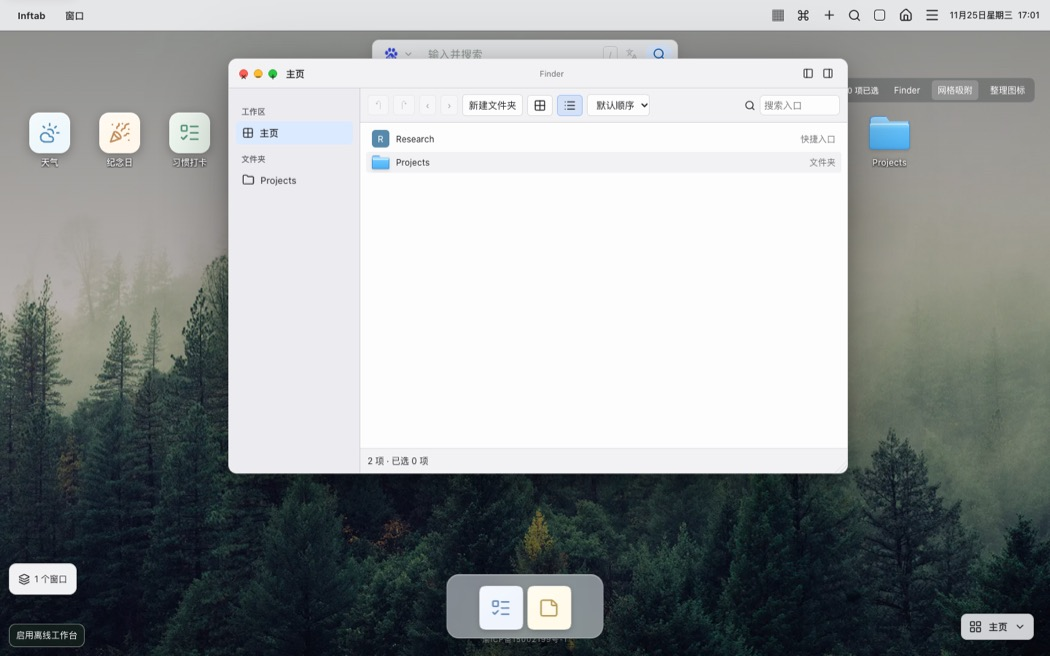
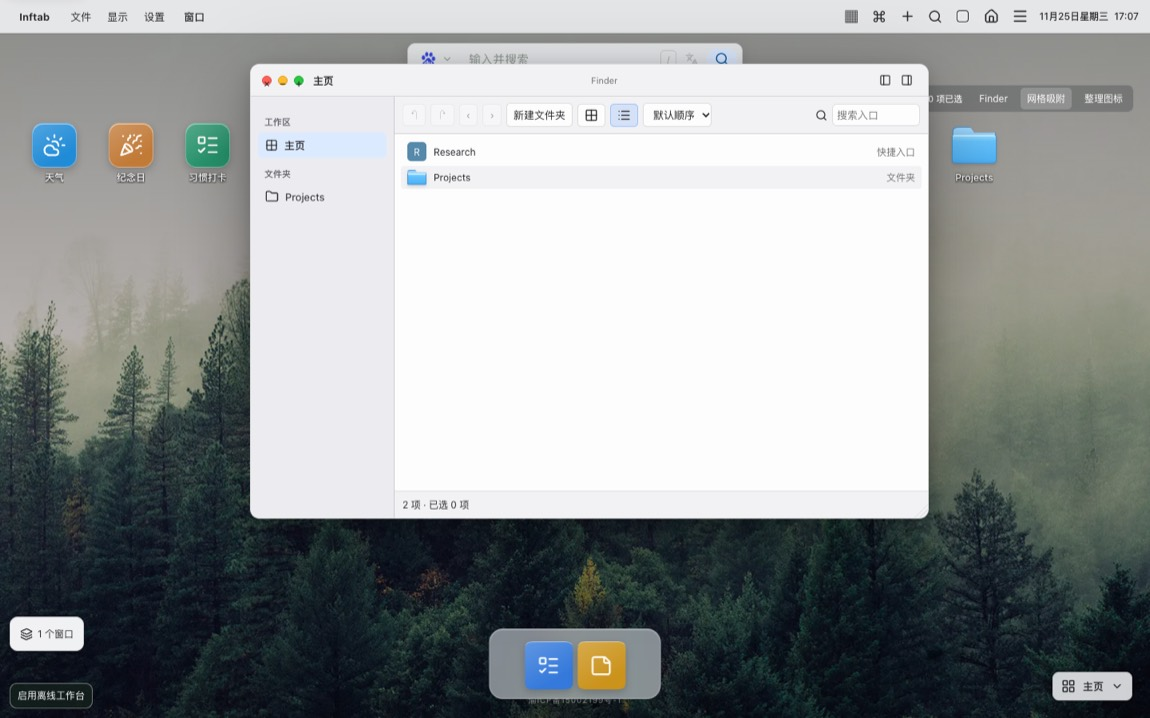
完善 macOS 功能菜单、系统设置与统一应用图标

diff --git a/e2e/desktop-alpha2.spec.ts b/e2e/desktop-alpha2.spec.ts
@@ -621,6 +621,8 @@ test('desktop chrome uses compact menu clock and coherent Finder Spotlight overv
  await page.getByRole('button',{name:'打开命令面板'}).click()
  const palette=page.getByRole('dialog',{name:'命令面板'})
  await expect(palette.getByRole('combobox')).toHaveCSS('font-size','22px')
+ await expect(palette.locator('.spotlight-search-icon')).toBeVisible()
+ await expect(palette.locator('.spotlight-icon').first()).toBeVisible()
  await page.screenshot({path:'test-results/mac38-spotlight.png',animations:'disabled'})
  await page.keyboard.press('Escape')
  await page.getByRole('button',{name:'窗口',exact:true}).click()
@@ -636,4 +638,84 @@ test('desktop chrome uses compact menu clock and coherent Finder Spotlight overv
  await page.getByRole('button',{name:'经典模式'}).click()
  await expect(page.locator('.home-content .home-clock')).toBeVisible()
  await expect(bar.locator('.home-clock')).toHaveCount(0)
+})
+
+test('mac desktop menus and settings navigation use real actions and preserve classic behavior',async({page},info)=>{
+ await page.setViewportSize({width:1440,height:900})
+ await page.goto('/')
+ await page.getByRole('button',{name:'桌面模式',exact:true}).click()
+ const menus=page.getByRole('navigation',{name:'桌面功能菜单'})
+ const file=menus.getByRole('button',{name:'文件',exact:true})
+ await file.focus()
+ await page.keyboard.press('ArrowDown')
+ const dropdown=menus.getByRole('menu',{name:'文件菜单'})
+ await expect(dropdown.getByRole('menuitem',{name:'打开 Finder'})).toBeFocused()
+ await page.keyboard.press('ArrowDown')
+ await expect(dropdown.getByRole('menuitem',{name:'新建快捷入口'})).toBeFocused()
+ await page.keyboard.press('Escape')
+ await expect(file).toBeFocused()
+ await expect(dropdown).toHaveCount(0)
+ await file.click()
+ await info.attach('mac-menu',{body:await page.screenshot({animations:'disabled'}),contentType:'image/png'})
+ await page.screenshot({path:'test-results/mac38-menu.png',animations:'disabled'})
+ await dropdown.getByRole('menuitem',{name:'打开 Finder'}).click()
+ const finder=page.getByRole('dialog',{name:'Finder 入口管理'})
+ await expect(finder).toBeVisible()
+ await finder.getByRole('button',{name:'关闭 Finder'}).click()
+ await menus.getByRole('button',{name:'显示',exact:true}).click()
+ await menus.getByRole('menuitem',{name:'深色外观'}).click()
+ await expect(page.locator('.home')).toHaveClass(/theme-dark/)
+ await menus.getByRole('button',{name:'设置',exact:true}).click()
+ await menus.getByRole('menuitem',{name:'系统设置'}).click()
+ const panel=page.getByRole('dialog',{name:'设置',exact:true})
+ const nav=panel.getByRole('navigation',{name:'设置分区'})
+ await expect(panel).toHaveClass(/mac-settings-panel/)
+ await expect(nav).toHaveCSS('flex-direction','column')
+ await expect(panel.locator('.settings-content')).toHaveCSS('display','grid')
+ await page.screenshot({path:'test-results/mac38-settings-dark.png',animations:'disabled'})
+ await nav.getByRole('button',{name:'数据',exact:true}).click()
+ await expect(nav.getByRole('button',{name:'数据',exact:true})).toHaveAttribute('aria-current','true')
+ await expect.poll(async()=>await panel.locator('[data-group="data"]').evaluate(el=>Math.round(el.getBoundingClientRect().top-el.closest('.side-panel')!.getBoundingClientRect().top))).toBeLessThan(100)
+ await nav.getByRole('button',{name:'外观',exact:true}).click()
+ await expect(nav.getByRole('button',{name:'外观',exact:true})).toHaveAttribute('aria-current','true')
+ await panel.getByRole('button',{name:'关闭',exact:true}).click()
+ await menus.getByRole('button',{name:'显示',exact:true}).click()
+ await menus.getByRole('menuitem',{name:'浅色外观'}).click()
+ await page.getByRole('button',{name:'打开设置'}).click()
+ await expect(panel).toBeVisible()
+ await expect(nav).toHaveCSS('flex-direction','column')
+ await page.screenshot({path:'test-results/mac38-settings-light.png',animations:'disabled'})
+ await page.setViewportSize({width:360,height:740})
+ await expect(nav).toHaveCSS('display','grid')
+ await panel.getByRole('button',{name:'关闭',exact:true}).click()
+ await expect(menus).toBeHidden()
+ await page.getByRole('button',{name:'经典模式',exact:true}).click()
+ await expect(menus).toHaveCount(0)
+ await page.getByRole('button',{name:'打开设置'}).click()
+ await expect(panel).not.toHaveClass(/mac-settings-panel/)
+ await expect(nav).toHaveCSS('display','grid')
+})
+
+test('right aligned arrangement is explicit and persists without losing desktop entries',async({page})=>{
+ await page.setViewportSize({width:1440,height:900})
+ await page.goto('/')
+ await page.getByRole('button',{name:'桌面模式',exact:true}).click()
+ const desktop=page.locator('.desktop-surface')
+ const icons=desktop.locator('.desktop-icon')
+ await expect(icons.first()).toBeVisible()
+ const ids=await icons.evaluateAll(nodes=>nodes.map(node=>node.getAttribute('data-item-id')!))
+ const first=icons.first(), second=icons.nth(1)
+ await first.click({button:'right'})
+ await page.getByRole('menuitem',{name:'从右上排列'}).click()
+ const read=()=>page.evaluate(()=>JSON.parse(localStorage.getItem('inftab.home-workspaces.v1')??'[]').find((w:{id:string})=>w.id==='default')?.desktop?.positions??{})
+ await expect.poll(async()=>Object.keys(await read()).length).toBe(ids.length)
+ const positions=await read()
+ expect(positions[ids[0]!].x).toBeGreaterThan(0)
+ expect(positions[ids[0]!].y).toBe(0)
+ expect(positions[ids[1]!]).toEqual({x:positions[ids[0]!].x,y:96})
+ await page.reload()
+ await expect(first).toHaveCSS('transform','matrix(1, 0, 0, 1, '+positions[ids[0]!].x+', 0)')
+ await expect(second).toHaveCSS('transform','matrix(1, 0, 0, 1, '+positions[ids[1]!].x+', 96)')
+ await page.setViewportSize({width:360,height:740})
+ await expect.poll(read).toEqual(positions)
 })

diff --git a/src/desktop/DesktopShell.vue b/src/desktop/DesktopShell.vue
@@ -6,7 +6,7 @@ import '@interactjs/auto-start'
 import type { LauncherItem } from '../types'
 import { launcherIcons } from '../components/launcherIcons'
 import { folderParents } from '../data/folderTree'
-import { cell, resolvePoints, fitPoint, freshLayout, normalizeLayout, translateGroup, type Point, type DesktopLayout } from './layout'
+import { cell, arrangeFromRight, resolvePoints, fitPoint, freshLayout, normalizeLayout, translateGroup, type Point, type DesktopLayout } from './layout'
 const props = defineProps<{items: LauncherItem[]; workspaceId: string; layout?: DesktopLayout; folderShortcuts?: LauncherItem[]; dark?: boolean}>()
 const emit = defineEmits<{open: [item: LauncherItem, event?: MouseEvent]; edit: [item: LauncherItem]; layout: [layout: DesktopLayout]; finder:[]; create:[]; remove:[item:LauncherItem]; membership:[item:LauncherItem,folderId:string]}>()
 const surface = ref<HTMLElement>()
@@ -22,6 +22,11 @@ const failedIcons = ref<Record<string,string>>({})
 // Parent keys this component by workspace ID; each space has an independent record.
 const layout = computed(() => props.layout ?? freshLayout())
 function update(next: DesktopLayout) { emit('layout', next) }
+function arrangeRight(){
+ if(dragging)return
+ const positions=arrangeFromRight(visibleItems.value.map(i=>i.id),width.value,surface.value?.clientHeight??height.value)
+ update({...layout.value,positions:{...layout.value.positions,...positions}})
+}
 function migrate() {
   if (props.layout) return
   try {
@@ -156,7 +161,7 @@ function cancelDrag() {
   suppressedId=d.id; suppressUntil=performance.now()+300
 }
 function cancelKey(event: KeyboardEvent) { if(event.key==='Escape'){cancelDrag(); menu.value=undefined;selected.value=[]} }
-function context(event:MouseEvent,item?:LauncherItem){menu.value={x:Math.min(event.clientX,innerWidth-180),y:Math.min(event.clientY,innerHeight-180),item}}
+function context(event:MouseEvent,item?:LauncherItem){menu.value={x:Math.max(0,Math.min(event.clientX,innerWidth-180)),y:Math.max(0,Math.min(event.clientY,innerHeight-230)),item}}
 function menuAction(action:()=>void){menu.value=undefined;action()}
 onMounted(() => { window.addEventListener('blur',cancelDrag); window.addEventListener('keydown',cancelKey); surface.value?.addEventListener('pointercancel',cancelDrag,true) })
 onBeforeUnmount(() => { cancelDrag(); observer?.disconnect(); binding?.unset(); window.removeEventListener('blur',cancelDrag); window.removeEventListener('keydown',cancelKey); surface.value?.removeEventListener('pointercancel',cancelDrag,true) })
@@ -190,7 +195,7 @@ watch(() => visibleItems.value.map(i=>i.id), ids => {
     <div v-if="menu" class="desktop-menu" :class="{dark}" :style="{left:menu.x+'px',top:menu.y+'px'}" role="menu">
       <button role="menuitem" @click="menuAction(()=>emit('create'))">新建文件夹</button>
       <button role="menuitem" @click="menuAction(()=>emit('finder'))">打开 Finder</button>
-      <button role="menuitem" @click="menuAction(()=>update({...layout,positions:{}}))">整理图标</button>
+      <button role="menuitem" @click="menuAction(()=>update({...layout,positions:{}}))">整理图标</button><button role="menuitem" @click="menuAction(arrangeRight)">从右上排列</button>
       <template v-if="menu.item?.shortcut||menu.item?.folder"><button role="menuitem" @click="emit('edit',menu.item!);menu=undefined">编辑</button><button role="menuitem" @click="emit('remove',menu.item!);menu=undefined">删除</button></template>
     </div>
   </section>
@@ -207,7 +212,7 @@ watch(() => visibleItems.value.map(i=>i.id), ids => {
 .desktop-icon:active{cursor:grabbing}
 .desktop-icon:focus-visible{outline:2px solid white;outline-offset:-3px;border-radius:8px}
 .desktop-symbol{width:56px;height:56px;border-radius:14px;border:1px solid #ffffff48;display:grid;place-items:center;overflow:hidden;color:white;box-shadow:0 4px 14px #0004,inset 0 1px 1px #ffffff50;font-size:24px}
-.desktop-symbol.builtin{color:var(--builtin-ink,#6c8b7b);background:linear-gradient(150deg,#ffffff60,transparent 65%),var(--builtin-paper,#f4f8f3)}
+
 .desktop-symbol img{width:100%;height:100%;object-fit:contain;pointer-events:none}
 .desktop-label{max-width:90px;overflow:hidden;text-overflow:ellipsis;white-space:nowrap;font-size:12px;font-weight:500;line-height:1.25;text-shadow:0 1px 3px #000,0 1px 6px #0009}
 .desktop-icon.selected .desktop-symbol{outline:2px solid #90c9ff;outline-offset:3px}.desktop-icon.selected .desktop-label{background:var(--mac-selection);border-radius:4px;padding:1px 5px}.desktop-symbol:has(.mac-folder){background:none!important;box-shadow:none;border:0;overflow:visible}.mac-folder{--folder-size:56px}.desktop-menu{position:fixed;z-index:18;background:var(--mac-menu);color:var(--mac-ink);padding:5px;border:1px solid var(--mac-line);border-radius:8px;box-shadow:var(--mac-shadow);width:170px;backdrop-filter:blur(18px)}.desktop-menu button{display:block;width:100%;text-align:left;padding:7px 9px;background:none;border:0;border-radius:5px;color:inherit;cursor:pointer}.desktop-menu button:hover,.desktop-menu button:focus-visible{background:var(--mac-selection);color:#fff}

diff --git a/src/styles/main.css b/src/styles/main.css
@@ -1328,3 +1328,33 @@ select { background-color: var(--ui-field); color: var(--ui-text); }
 .desktop-mode .command-palette{margin:min(17vh,120px) auto auto;max-height:min(480px,calc(100dvh - min(17vh,120px) - 16px))}
 .desktop-mode .command-palette .command-shell input{color:var(--mac-ink)}
 @media(forced-colors:active){.mac-folder-icon{forced-color-adjust:none}.desktop-mode .home-workspace-trigger{border-color:ButtonText}}
+
+/* Settings has the same scroll container and focus trap as classic mode;
+   desktop appearance switches only its spatial composition. */
+.desktop-mode .panel-backdrop:has(.mac-settings-panel){align-items:center;justify-content:center;background:#0003;backdrop-filter:none}
+.desktop-mode .mac-settings-panel{width:min(800px,100%);height:min(700px,100%);background:var(--mac-window);border:1px solid var(--mac-line);box-shadow:var(--mac-shadow-active);border-radius:12px;scrollbar-color:var(--mac-muted) transparent;animation:none;--panel-header-height:60px}
+.desktop-mode .mac-settings-panel .panel-header{background:var(--mac-toolbar);padding:10px 18px}
+.desktop-mode .mac-settings-panel .panel-header h2{font-size:17px;font-weight:600}
+.desktop-mode .mac-settings-panel .panel-header p{margin-top:2px}
+.desktop-mode .mac-settings-panel .panel-close{width:26px;height:26px;border-radius:50%;border:0;background:var(--mac-line)}
+.desktop-mode .mac-settings-panel .settings-section{margin:10px 0;padding:12px 14px;border-radius:8px;box-shadow:none}
+.desktop-mode .mac-settings-panel .section-heading{margin-bottom:10px}
+.desktop-mode .mac-settings-panel .section-heading h3{letter-spacing:0;font-weight:600}
+@media(min-width:760px){
+ .desktop-mode .mac-settings-panel .settings-content{position:relative;display:grid;grid-template-columns:174px minmax(0,1fr);column-gap:16px;padding:0 16px 20px 0;align-items:start;background:linear-gradient(90deg,var(--mac-sidebar) 174px,var(--mac-window) 174px)}
+ .desktop-mode .mac-settings-panel .settings-nav{grid-column:1;grid-row:1/span 5;display:flex;flex-direction:column;align-self:start;gap:3px;margin:0;padding:14px 8px;top:var(--panel-header-height);background:var(--mac-sidebar);border:0}
+ .desktop-mode .mac-settings-panel .settings-nav-button{min-height:34px;flex-direction:row;justify-content:flex-start;gap:8px;padding:5px 9px;font-size:13px;color:var(--mac-ink);border-radius:6px;box-shadow:none}
+ .desktop-mode .mac-settings-panel .settings-nav-button.active{background:var(--mac-selection);color:#fff;border-color:transparent}
+ .desktop-mode .mac-settings-panel .settings-group{grid-column:2;min-width:0;scroll-margin-top:calc(var(--panel-header-height) + 8px)}
+}
+
+.desktop-mode :is(.desktop-symbol,.home-dock-icon,.spotlight-icon).builtin{color:#fff;background:linear-gradient(150deg,#ffffff38,transparent 75%),var(--app-icon,#677587);border-color:#ffffff55;box-shadow:0 4px 10px #0003,inset 0 1px 0 #fff8}.desktop-mode :is(.desktop-symbol,.home-dock-icon,.spotlight-icon).builtin[data-action="weather"]{--app-icon:#208bd7}.desktop-mode :is(.desktop-symbol,.home-dock-icon,.spotlight-icon).builtin[data-action="todos"]{--app-icon:#3479db}.desktop-mode :is(.desktop-symbol,.home-dock-icon,.spotlight-icon).builtin[data-action="notes"]{--app-icon:#cb931b}.desktop-mode :is(.desktop-symbol,.home-dock-icon,.spotlight-icon).builtin[data-action="calendar"]{--app-icon:#d64c55}.desktop-mode :is(.desktop-symbol,.home-dock-icon,.spotlight-icon).builtin[data-action="habits"]{--app-icon:#26956d}.desktop-mode :is(.desktop-symbol,.home-dock-icon,.spotlight-icon).builtin[data-action="focus-timer"]{--app-icon:#7a62c3}.desktop-mode :is(.desktop-symbol,.home-dock-icon,.spotlight-icon).builtin[data-action="countdowns"]{--app-icon:#c27a37}.desktop-mode :is(.desktop-symbol,.home-dock-icon,.spotlight-icon).builtin[data-action="calculator"]{--app-icon:#4b626f}.desktop-mode :is(.desktop-symbol,.home-dock-icon,.spotlight-icon).builtin[data-action="bookmarks"]{--app-icon:#258b9a}
+
+.desktop-mode .spotlight-icon{width:26px;height:26px;flex:0 0 26px;display:grid;place-items:center;border-radius:6px;background:var(--mac-toolbar);color:var(--mac-muted)}
+.desktop-mode .spotlight-label{display:flex;align-items:center;gap:10px;min-width:0}
+.desktop-mode .spotlight-label>span:last-child{overflow:hidden;text-overflow:ellipsis;white-space:nowrap}
+.desktop-mode .command-option[aria-selected=true] .spotlight-icon:not(.builtin){background:#ffffff26;color:#fff}
+.desktop-mode .command-option small{flex:none}
+.desktop-mode .command-shell header:focus-within{box-shadow:inset 0 -2px 0 var(--mac-selection)}
+.desktop-mode .command-shell input:focus-visible{outline:none}
+.desktop-mode .command-shell header .spotlight-search-icon{color:var(--mac-muted);flex:none}

diff --git a/src/desktop/DesktopMenus.vue b/src/desktop/DesktopMenus.vue
@@ -1,0 +1,48 @@
+<script setup lang="ts">
+import { nextTick,ref,onMounted,onBeforeUnmount } from 'vue'
+import { navigateMenu } from '../components/menuNavigation'
+const emit=defineEmits<{run:[command:string]}>()
+const root=ref<HTMLElement>(),active=ref('')
+const groups=[
+ {label:'文件',items:[['desktop:finder','打开 Finder'],['add','新建快捷入口'],['desktop:folder','新建文件夹']]},
+ {label:'显示',items:[['desktop:overview','窗口概览'],['layout','首页布局与小组件'],['light','浅色外观'],['dark','深色外观'],['system','跟随系统'],['desktop:classic','返回经典模式']]},
+ {label:'设置',items:[['panel:settings','系统设置'],['find','查找快捷入口']]},
+]
+function close(restore=false){
+ const previous=active.value
+ active.value=''
+ if(restore)root.value?.querySelector<HTMLButtonElement>('[data-menu="'+previous+'"]')?.focus()
+}
+function open(label:string){active.value=active.value===label?'':label}
+function keys(event:KeyboardEvent){
+ if(event.key==='Escape'&&active.value){event.preventDefault();event.stopPropagation();close(true)}
+ else if(event.key==='ArrowDown'&&event.target instanceof HTMLButtonElement&&event.target.dataset.menu){
+  event.preventDefault();active.value=event.target.dataset.menu
+  void nextTick(()=>root.value?.querySelector<HTMLButtonElement>('[role="menuitem"]')?.focus())
+ }
+}
+function outside(event:PointerEvent){if(!root.value?.contains(event.target as Node))close()}
+function run(command:string){close();emit('run',command)}
+onMounted(()=>document.addEventListener('pointerdown',outside,true))
+onBeforeUnmount(()=>document.removeEventListener('pointerdown',outside,true))
+</script>
+<template>
+ <nav ref="root" class="desktop-menus" aria-label="桌面功能菜单" @keydown="keys" @focusout="!root?.contains($event.relatedTarget as Node)&&close()">
+  <div v-for="group in groups" :key="group.label" class="desktop-menu-anchor">
+   <button type="button" :data-menu="group.label" aria-haspopup="menu" :aria-expanded="active===group.label" @click="open(group.label)">{{group.label}}</button>
+   <div v-if="active===group.label" class="desktop-dropdown" role="menu" :aria-label="group.label+'菜单'" @keydown="navigateMenu">
+    <button v-for="[id,label] in group.items" :key="id" type="button" role="menuitem" @click="run(id!)">{{label}}</button>
+   </div>
+  </div>
+ </nav>
+</template>
+<style scoped>
+.desktop-menus{display:flex;align-items:center;gap:2px;font:400 13px var(--mac-font);color:var(--mac-ink)}
+.desktop-menu-anchor{position:relative}
+button{border:0;background:transparent;color:inherit;cursor:pointer;border-radius:5px;padding:5px 9px;white-space:nowrap}
+button:hover,button[aria-expanded=true]{background:var(--mac-selection-soft)}
+.desktop-dropdown{position:absolute;top:calc(100% + 6px);left:0;z-index:2;min-width:200px;padding:5px;background:var(--mac-menu);border:1px solid var(--mac-line);border-radius:8px;box-shadow:var(--mac-shadow);backdrop-filter:blur(22px)}
+.desktop-dropdown button{display:block;text-align:left;width:100%;padding:6px 10px}
+.desktop-dropdown button:hover,.desktop-dropdown button:focus-visible{background:var(--mac-selection);color:#fff;outline:0}
+@media(max-width:800px){.desktop-menus{display:none}}
+</style>

diff --git a/src/components/CommandPalette.vue b/src/components/CommandPalette.vue
@@ -1,4 +1,6 @@
 <script setup lang="ts">
+import { Search, Folder, Grid2X2, ArrowUpRight, StickyNote, ListTodo, Command } from '@lucide/vue'
+import { launcherIcons } from './launcherIcons'
 import { computed, nextTick, onBeforeUnmount, onMounted, ref, watch } from 'vue'
 import { trapOverlayTab, isComposingKey } from '../composables/overlayFocus'
 import { filterCommands } from '../data/commands'
@@ -25,6 +27,10 @@ const commands = computed(() => {
  const used=new Set(ordered.map(c=>c.id))
  return [...ordered,...base.filter(c=>!used.has(c.id))]
 })
+function resultIcon(id:string,detail:string){
+ const key=id.startsWith('panel:')?id.slice(6):''
+ return launcherIcons[key]??(detail==='文件夹'||id==='desktop:finder'?Folder:detail==='笔记'?StickyNote:detail.includes('待办')?ListTodo:detail==='工作区'||id==='desktop:overview'?Grid2X2:detail==='快捷入口'?ArrowUpRight:Command)
+}
 watch(commands, items => { selected.value = Math.max(0,Math.min(selected.value,items.length-1)) })
 let returnFocus: HTMLElement | undefined
 
@@ -66,11 +72,12 @@ onBeforeUnmount(() => {
   <dialog ref="dialog" class="command-palette" aria-label="命令面板" @keydown="handleDialogKey" @cancel.prevent="emit('close')" @click.self="emit('close')">
     <div class="command-shell">
       <header>
+        <Search v-if="desktop" class="spotlight-search-icon" :size="23" aria-hidden="true"/>
         <input ref="input" v-model="query" type="search" role="combobox" aria-label="搜索命令" aria-expanded="true" aria-controls="command-results" :aria-activedescendant="commands.length ? 'command-' + selected : undefined" autocomplete="off" :placeholder="desktop?'搜索应用、入口、笔记、待办…':'输入命令…'" @keydown="handleInputKey" />
         <button type="button" aria-label="关闭命令面板" @click="emit('close')">Esc</button>
       </header>
       <div id="command-results" role="listbox" aria-label="可用命令" class="command-results">
-        <div v-for="(command, index) in commands" :id="'command-' + index" :key="command.id" role="option" :aria-selected="index === selected" class="command-option" @pointermove="($event.pointerType === 'mouse' || $event.pointerType === 'pen') && (selected = index)" @click="runCommand(command.id)"><span>{{ command.label }}</span><small>{{ command.detail }}</small></div>
+        <div v-for="(command, index) in commands" :id="'command-' + index" :key="command.id" role="option" :aria-selected="index === selected" class="command-option" @pointermove="($event.pointerType === 'mouse' || $event.pointerType === 'pen') && (selected = index)" @click="runCommand(command.id)"><span :class="{'spotlight-label':desktop}"><span v-if="desktop" class="spotlight-icon" :class="{builtin:command.id.startsWith('panel:')}" :data-action="command.id.startsWith('panel:')?command.id.slice(6):undefined" aria-hidden="true"><component :is="resultIcon(command.id,command.detail)" :size="16" :stroke-width="1.8"/></span><span>{{ command.label }}</span></span><small>{{ command.detail }}</small></div>
         <p v-if="!commands.length" role="status">未找到匹配的命令。</p>
       </div>
       <footer><span>↑ ↓ 选择</span><span>Enter 执行</span><span>Esc 关闭</span></footer>

diff --git a/src/App.vue b/src/App.vue
@@ -38,6 +38,7 @@ const overviewRequest = ref(0)
 const runningDesktopPanels = ref<PanelId[]>([])
 const finderOperationError = ref('')
 const desktopHistory = shallowRef({undo:false,redo:false})
+const DesktopMenus = defineAsyncComponent(() => import('./desktop/DesktopMenus.vue'))
 const DesktopShell = lazyHome(() => import('./desktop/DesktopShell.vue'), '自由桌面', true)
 const desktopMode = useStoredState('inftab.desktop-mode.v1', false, value => value === true)
 const ShortcutGrid = lazyHome(() => import('./components/ShortcutGrid.vue'), '快捷入口', true)
@@ -850,6 +851,7 @@ onBeforeUnmount(() => {
     <div class="home-brand" aria-label="Infinity 新标签页"><span class="brand-mark" aria-hidden="true">∞</span><span class="brand-word">infinity</span><span class="brand-label">新标签页</span></div>
     <header class="home-actions">
       <button v-if="desktopMode && !minimalMode" type="button" class="desktop-menu-label" @click="openFinder()">Inftab</button>
+      <DesktopMenus v-if="desktopMode && !minimalMode" @run="$event==='desktop:folder'?openFolderEditor():runCommand($event)" />
       <button v-if="desktopMode && !minimalMode" type="button" class="desktop-menu-label" @click="overviewRequest++">窗口</button>
       <button v-if="!minimalMode" type="button" class="round-action desktop-mode-toggle" :aria-label="desktopMode ? '经典模式' : '桌面模式'" :title="desktopMode ? '经典模式' : '桌面模式'" :aria-pressed="desktopMode" @click="desktopMode = !desktopMode"><span aria-hidden="true">▦</span></button>
       <button type="button" class="round-action home-command-toggle" aria-label="打开命令面板" title="命令面板（Ctrl/⌘+Shift+P）" @click="openCommandPalette"><span aria-hidden="true">⌘</span></button>
@@ -962,7 +964,7 @@ onBeforeUnmount(() => {
     <footer class="home-footer">渝ICP备15002199号-1</footer>
 
     <div v-if="activePanel" class="panel-backdrop" @click.self="activePanel = null">
-      <aside ref="sidePanel" class="side-panel" :class="{ 'notes-panel': activePanel === 'notes' }" aria-modal="true" role="dialog" :aria-label="activePanelPlugin?.title ?? '功能面板'" @keydown="handlePanelKeydown">
+      <aside ref="sidePanel" class="side-panel" :class="{ 'notes-panel': activePanel === 'notes', 'mac-settings-panel': desktopMode&&!minimalMode&&activePanel==='settings' }" aria-modal="true" role="dialog" :aria-label="activePanelPlugin?.title ?? '功能面板'" @keydown="handlePanelKeydown">
         <header class="panel-header">
           <button v-if="activePanel !== 'settings'" class="back-button" type="button" aria-label="返回设置" @click="openPanel('settings')"><ArrowLeft :size="19" /></button>
           <div><h2>{{ activePanelPlugin?.title ?? (panelRegistryError ? '面板加载失败' : '正在加载…') }}</h2><p>{{ activePanelPlugin?.description ?? '' }}</p></div>

diff --git a/src/desktop/layout.test.ts b/src/desktop/layout.test.ts
@@ -1,5 +1,5 @@
 import { describe, it, expect } from 'vitest'
-import { fitPoint, defaultPoint, normalizeLayout } from './layout'
+import { fitPoint, defaultPoint, normalizeLayout, arrangeFromRight } from './layout'
 describe('desktop layout', () => {
   it('clamps view without mutating saved coordinates', () => {
     const p={x:700,y:400}
@@ -37,4 +37,16 @@ describe('desktop group movement', () => {
     expect(translateGroup({ a: { x: 14, y: 22 }, b: { x: 115, y: 25 } }, { x: -20, y: 13 }, 400, 400)).toEqual({ a: { x: 0, y: 35 }, b: { x: 101, y: 38 } })
     expect(translateGroup({}, { x: 10, y: 10 }, 400, 400)).toEqual({})
   })
+})
+
+describe('explicit right-aligned arrangement',()=>{
+ it('fills rightmost column first and preserves every item on overflow',()=>{
+  expect(arrangeFromRight(['a','b','c','d','e'],192,192)).toEqual({a:{x:96,y:0},b:{x:96,y:96},c:{x:0,y:0},d:{x:0,y:96},e:{x:96,y:192}})
+ })
+ it('has no collisions on small screens and large collections',()=>{
+  const ids=Array.from({length:1000},(_,i)=>String(i))
+  const positions=arrangeFromRight(ids,40,40)
+  expect(Object.keys(positions)).toHaveLength(ids.length)
+  expect(new Set(Object.values(positions).map(p=>p.x+':'+p.y)).size).toBe(ids.length)
+ })
 })

diff --git a/src/desktop/layout.ts b/src/desktop/layout.ts
@@ -68,3 +68,13 @@ export function translateGroup(points: Record<string, Point>, delta: Point, widt
   for (const [id, point] of entries) result[id] = { x: point.x + dx, y: point.y + dy }
   return result
 }
+
+/** Explicit arrange operation: columns fill downwards, from the right edge.
+ * Overflow remains accessible below the first screen; never discards an ID. */
+export function arrangeFromRight(ids:string[],width:number,height:number):Record<string,Point>{
+ const columns=Math.max(1,Math.floor(width/cell)),rows=Math.max(1,Math.floor(height/cell)),capacity=columns*rows
+ return Object.fromEntries(ids.map((id,i)=>{
+  const slot=i%capacity
+  return [id,{x:(columns-1-Math.floor(slot/rows))*cell,y:(Math.floor(i/capacity)*rows+slot%rows)*cell}]
+ }))
+}

diff --git a/src/components/SettingsPanel.vue b/src/components/SettingsPanel.vue
@@ -82,7 +82,7 @@ function scrollToGroup(id: SettingsGroupId) {
 function syncActiveGroup() {
   const panel = panelScrollElement
   if (!panel) return
-  const navHeight = settingsNav.value?.offsetHeight ?? 0
+  const navHeight = panel.classList.contains('mac-settings-panel') && matchMedia('(min-width: 760px)').matches ? 0 : settingsNav.value?.offsetHeight ?? 0
   const headerHeight = panel.querySelector<HTMLElement>('.panel-header')?.offsetHeight ?? 0
   const threshold = panel.getBoundingClientRect().top + headerHeight + navHeight + 16
   let current: SettingsGroupId = settingsGroups[0].id

diff --git a/docs/macos-desktop-design.md b/docs/macos-desktop-design.md
@@ -40,3 +40,12 @@
 - [窗口概览](screenshots/macos-desktop/overview.jpg)
 
 下一批优先补齐真正的应用菜单、图标默认排列可选策略、Dock/窗口交互与 Spotlight 分类层级；不改变用户已保存位置。系统设置窗口及完整多分辨率/同环境视觉对照仍待完成。
+
+## 第三批：菜单、图标与系统设置
+
+- 新增桌面专用 `DesktopMenus.vue`，复用现有命令和键盘菜单辅助函数。文件、显示、设置菜单支持点击、方向键、Home/End、Escape、焦点恢复与外部点击关闭；现有 Inftab/Finder、窗口概览入口保持可用。窄屏隐藏扩展菜单，但保留原快捷操作与桌面右键入口。不是完整 macOS 系统菜单。
+- 桌面右键提供「从右上排列」，以右列自上而下填充，超出一屏继续向下。仅显式操作写入坐标；旧位置及备份格式不自动迁移。已有「整理图标」仍保留。复用原拖动与碰撞引擎。
+- 桌面、Dock、Spotlight 共享彩色内置应用图标，复用 Lucide 和原有图标注册表；不引入 Apple 私有图标。Spotlight 搜索图标、结果图标、文本层级与焦点反馈改善；保留原检索排序，尚未增加独立分类分组。
+- 系统设置改为居中 800px 上限的窗口；宽屏左侧粘性导航、右侧分组内容，窄屏回到横向导航；复用原有滚动容器、焦点管理及设置业务逻辑。经典模式保持原面板。设置目前是模态窗口，并非可拖动的独立系统窗口。
+- 实际 Mac Edge 1440×900 浅深主题截图审查，新增 [功能菜单](screenshots/macos-desktop/menu.jpg)、[浅色系统设置](screenshots/macos-desktop/settings-light.jpg)、[深色系统设置](screenshots/macos-desktop/settings-dark.jpg)，更新桌面/Finder/Spotlight/概览截图。专项布局单测 12/12，最终生产回归 52/52（desktop-alpha、alpha2、storage、production-chunks）；typecheck 和生产构建通过。新提交远程 CI 待验证。
+- 下一批优先 Finder 工具栏原生控件、Dock 区域/提示及动效、Mission Control 有窗状态和多分辨率对照；继续真实截图审核，完成后统一收口，不拆小 PR。
